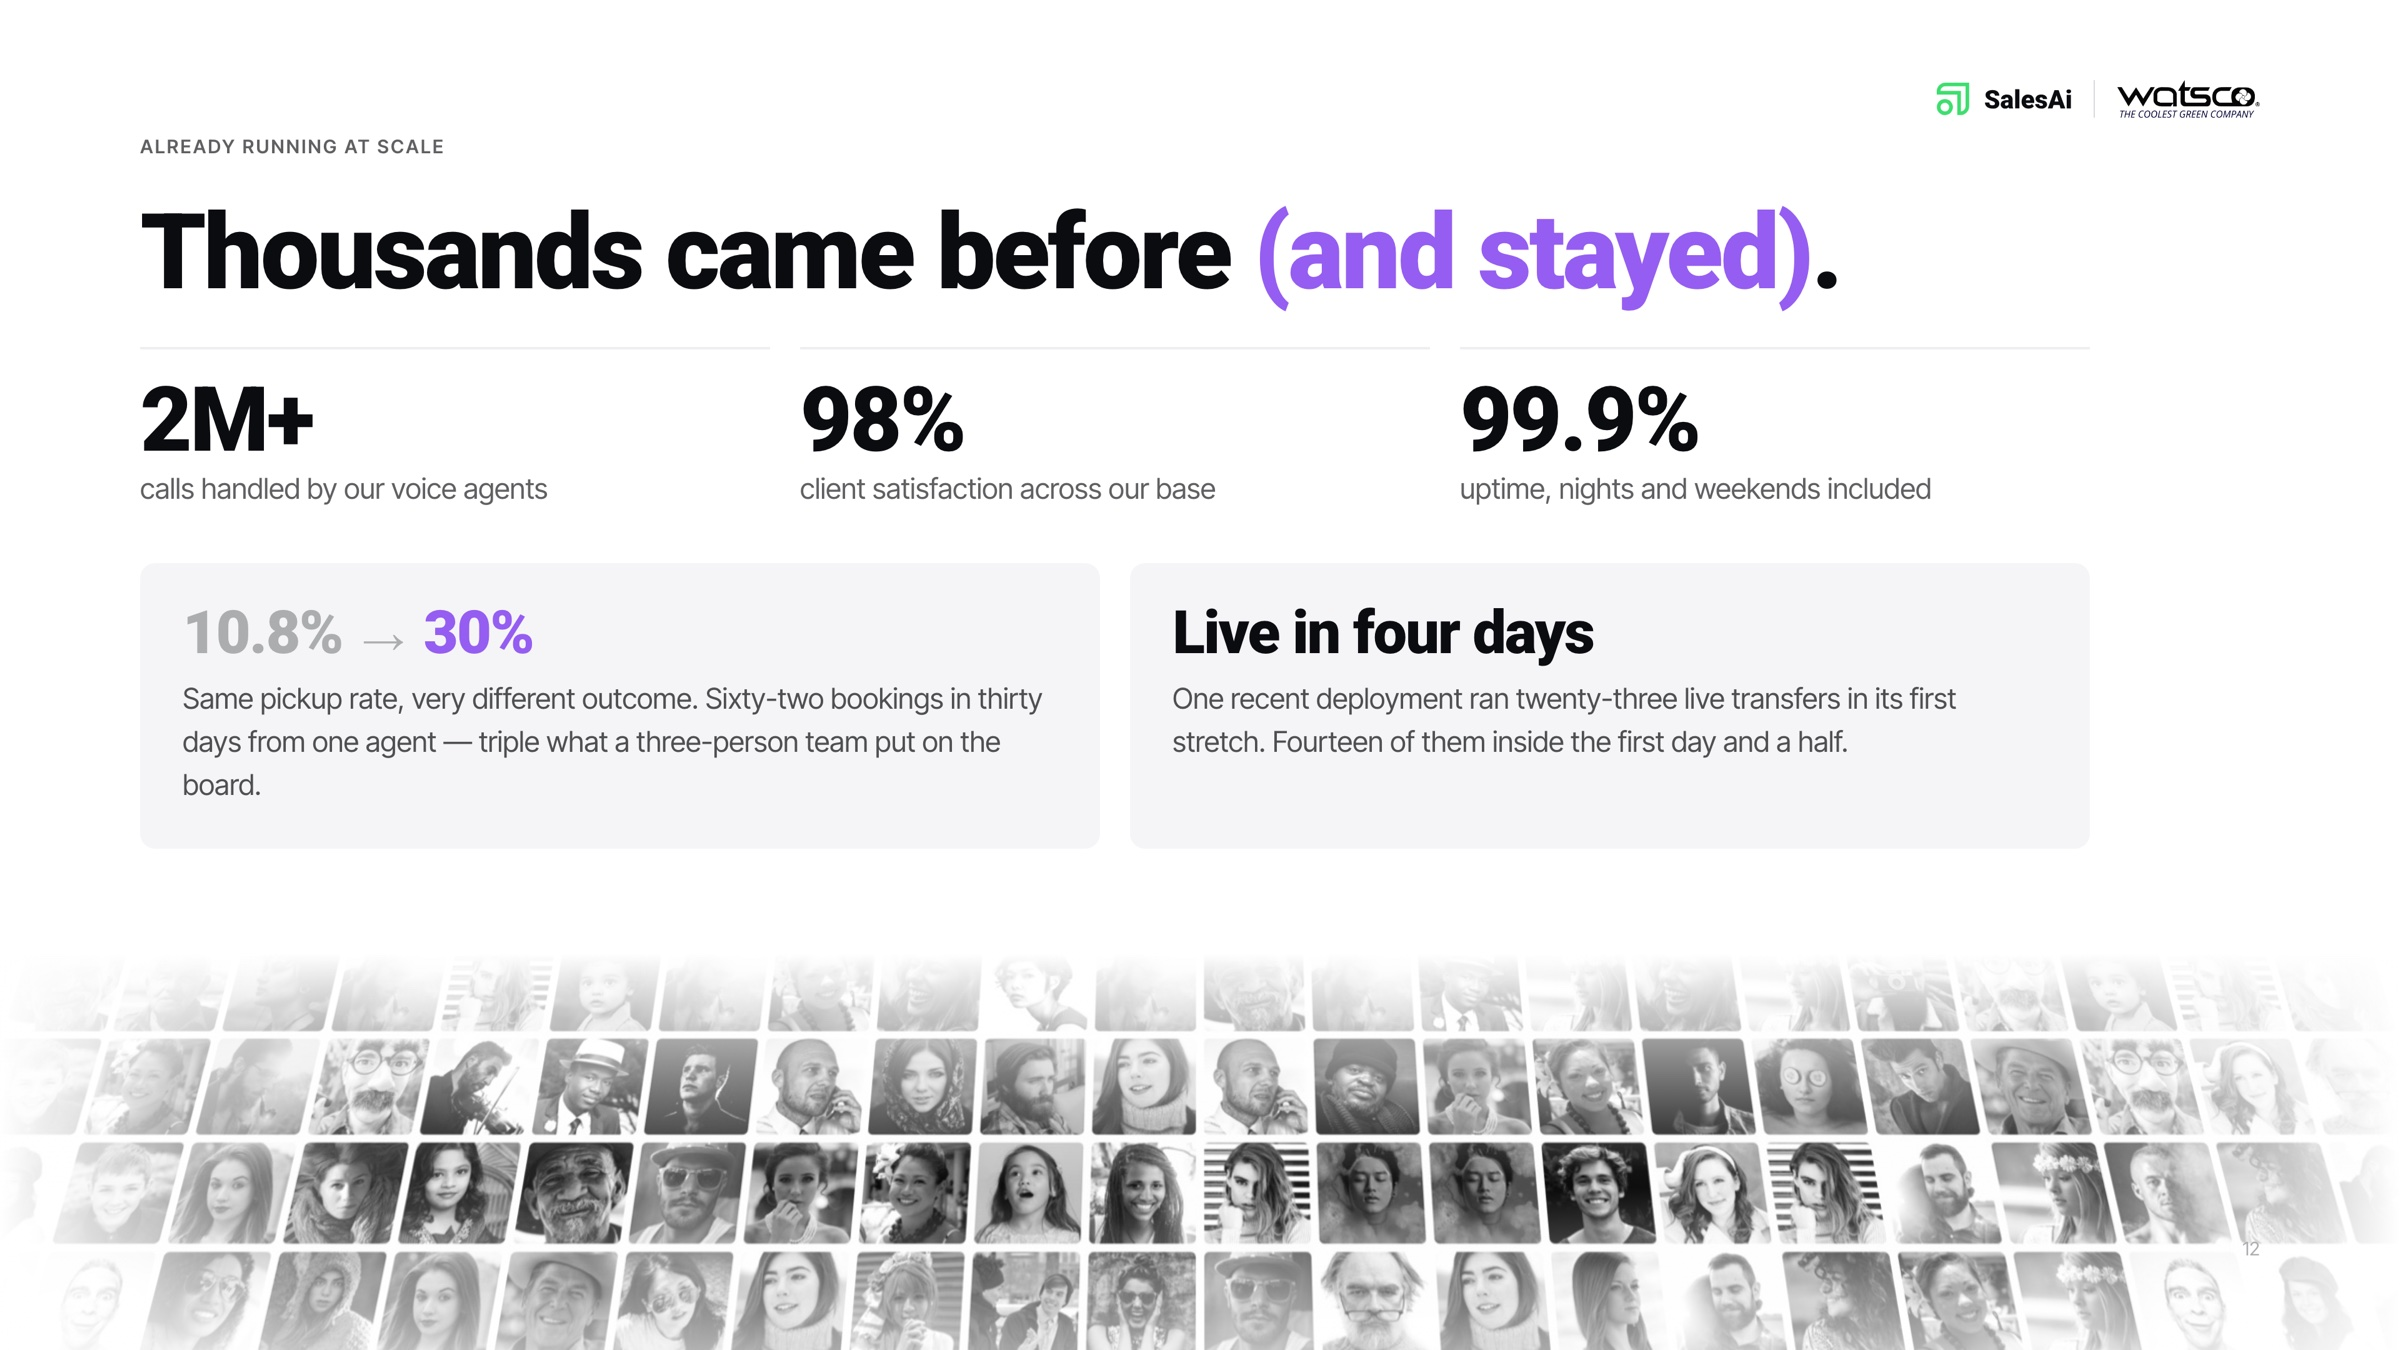
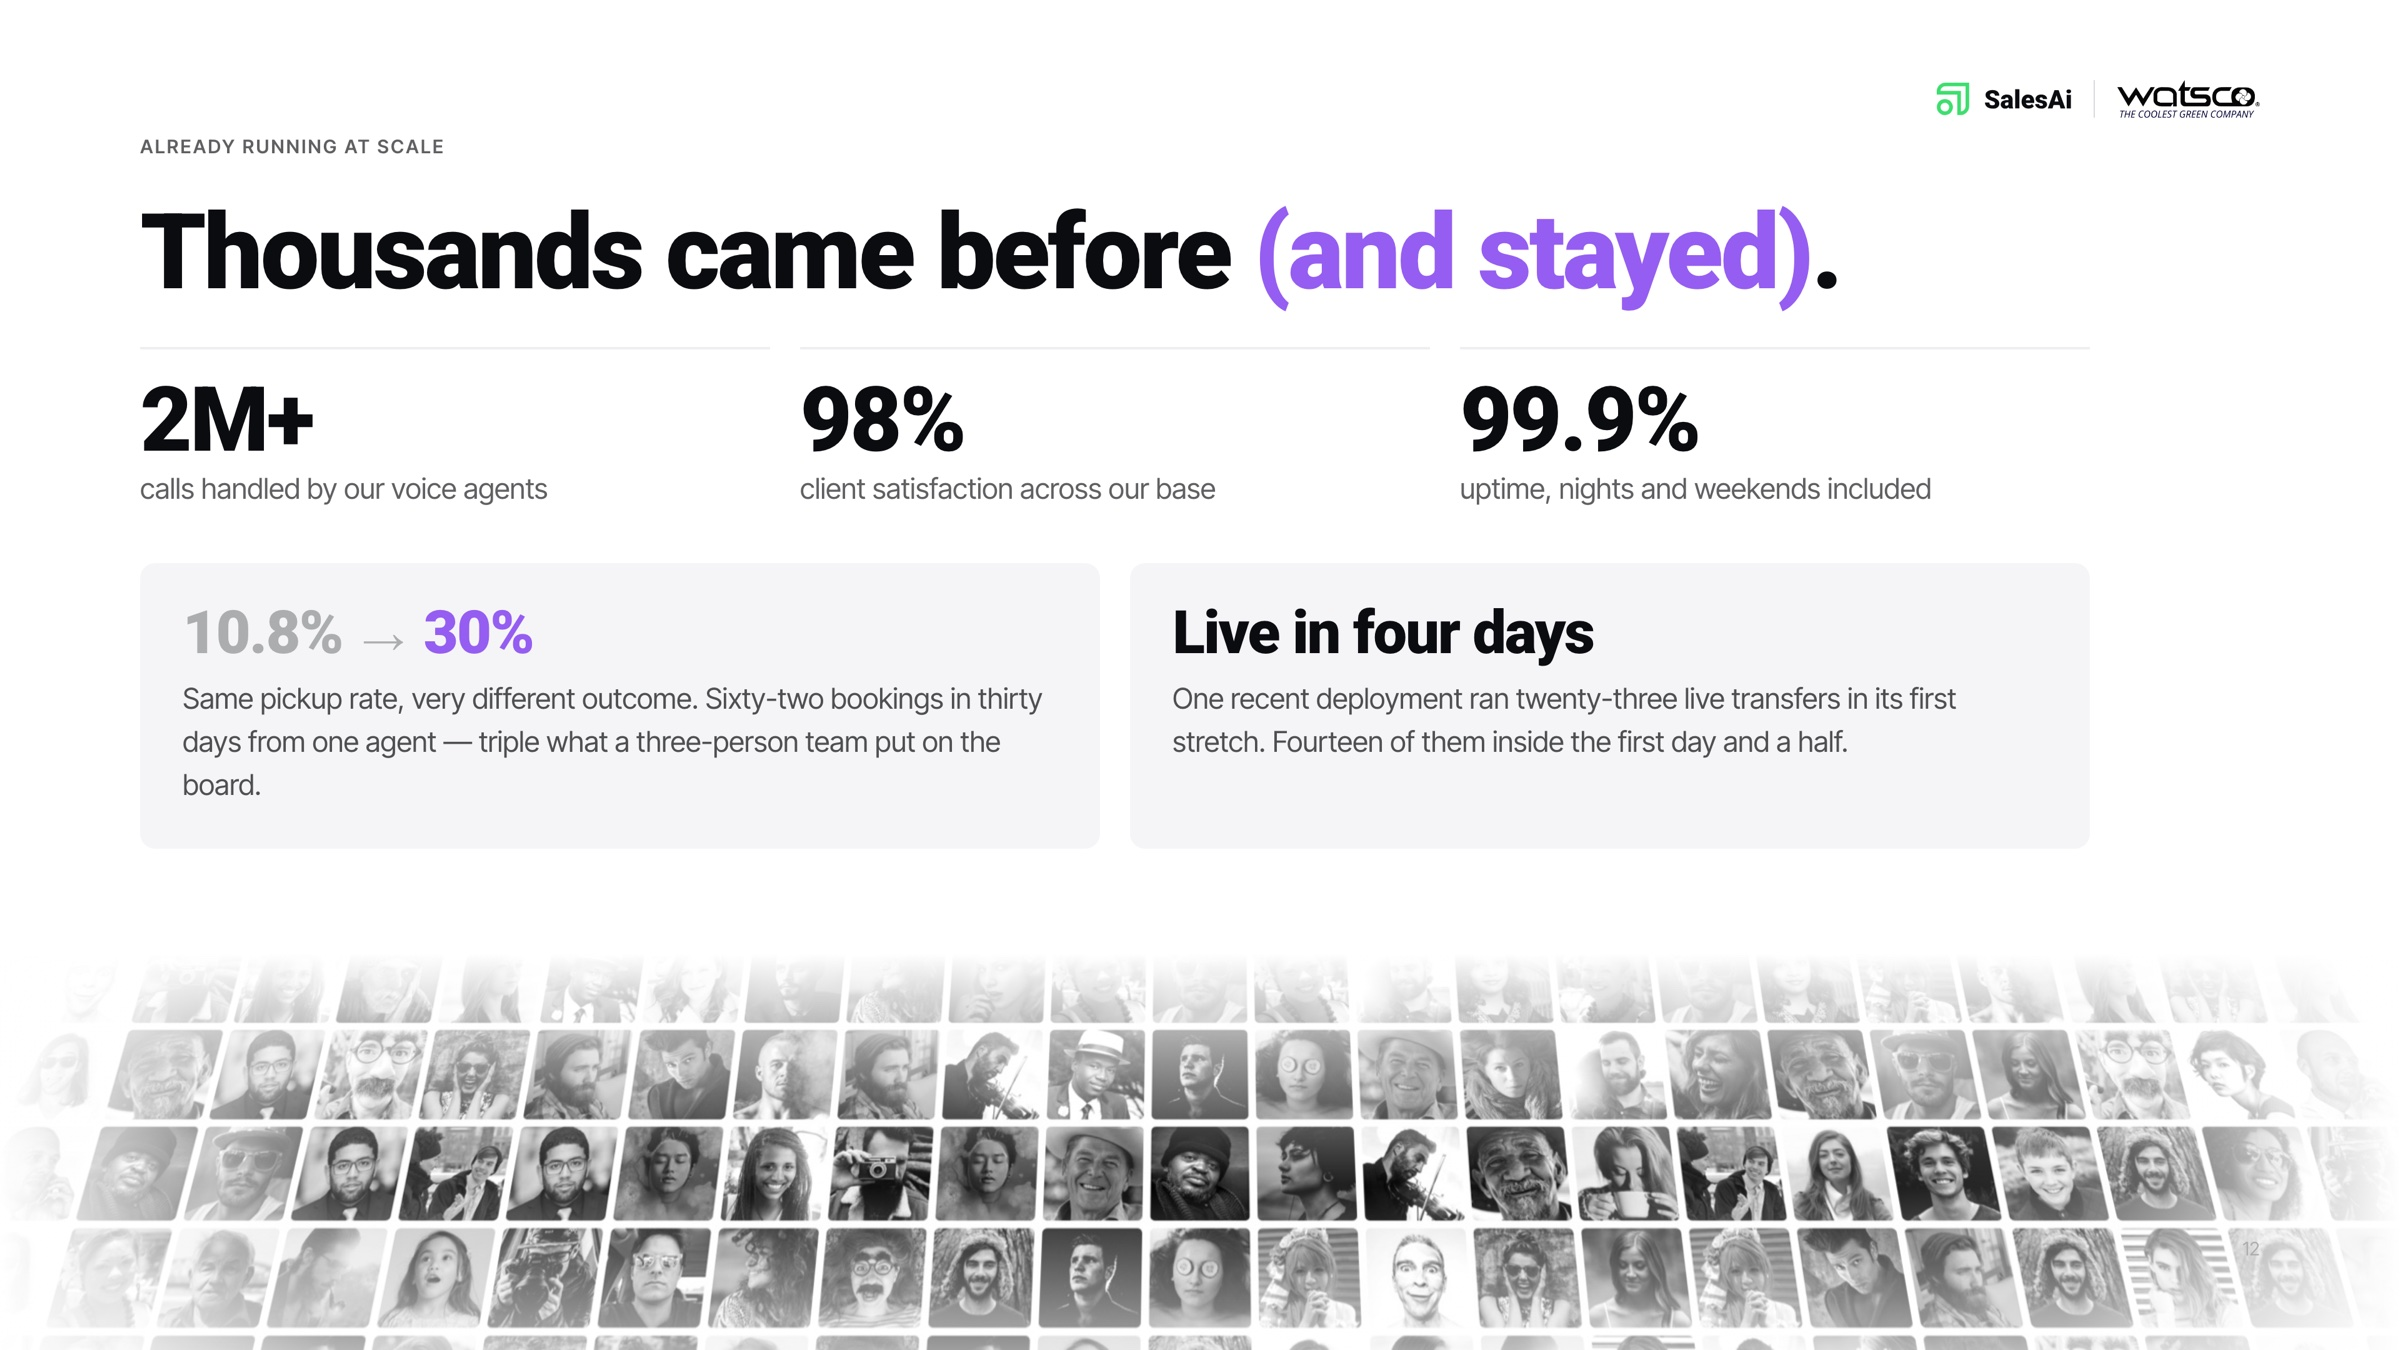
Face wall to 23 columns; add cell phone to the funnel
Montage rebuilt at 23 columns and displayed narrower, so tiles read
slightly smaller. Contact step gains a required mobile number.

Claude-Session: https://claude.ai/code/session_01541ZQJSzd5g49QbE64sNeN

Changed region(s): [[0.0312, 0.7156, 1.0, 1.0]]

diff --git a/watsco-claim.html b/watsco-claim.html
@@ -237,6 +237,7 @@ function render(){
       +  '<p class="sub">We use this to issue your code and prepare your quote.</p>'
       +  '<label class="f"><span>Your name</span><input class="f" id="f_name" autocomplete="name" placeholder="First and last" value="'+esc(A.name)+'"></label>'
       +  '<label class="f"><span>Work email</span><input class="f" id="f_email" type="email" inputmode="email" autocomplete="email" placeholder="you@yourcompany.com" value="'+esc(A.email)+'"></label>'
+      +  '<label class="f"><span>Cell phone</span><input class="f" id="f_phone" type="tel" inputmode="tel" autocomplete="tel" placeholder="(555) 123-4567" value="'+esc(A.phone)+'"></label>'
       +  '<label class="f"><span>Company name</span><input class="f" id="f_company" autocomplete="organization" placeholder="Legal or trading name" value="'+esc(A.company)+'"></label>'
       +  '<label class="f"><span>Company address</span><textarea class="f" id="f_addr" autocomplete="street-address" placeholder="Street, city, state, ZIP">'+esc(A.address)+'</textarea></label>'
       +  '<div class="err" id="err"></div>';
@@ -342,6 +343,8 @@ nextB.addEventListener('click', function(){
     if(!A.name)    return showErr('We need a name for the quote.');
     if(!/^[^\s@]+@[^\s@]+\.[^\s@]+$/.test(A.email)) return showErr('That email doesn’t look right.');
     if(/(gmail|yahoo|hotmail|outlook|icloud|aol)\./i.test(A.email)) return showErr('Please use your work email — the credit is issued to the business.');
+    A.phone = document.getElementById('f_phone').value.trim();
+    if(A.phone.replace(/\D/g,'').length < 10) return showErr('We need a mobile number we can reach you on.');
     if(!A.company) return showErr('Company name is required.');
     if(!A.address) return showErr('We need the company address for the quote.');
     save();

diff --git a/watsco-dealer-deck.html b/watsco-dealer-deck.html
@@ -99,7 +99,7 @@ nav{position:fixed;inset:0 0 auto 0;height:var(--nav);z-index:100;background:#00
 <section class="s" data-n="09"><img src="watsco-deck/09.jpg?v=ffba60d0a7" width="2400" height="1350" alt="Slide 09 — Play 03 · Coordinate execution" loading="lazy" decoding="async"></section>
 <section class="s" data-n="10"><img src="watsco-deck/10.jpg?v=fa9eec9f46" width="2400" height="1350" alt="Slide 10 — Play 04 · Care after the sale" loading="lazy" decoding="async"></section>
 <section class="s" data-n="11"><img src="watsco-deck/11.jpg?v=0dd8a9b20b" width="2400" height="1350" alt="Slide 11 — What compounds" loading="lazy" decoding="async"></section>
-<section class="s" data-n="12"><img src="watsco-deck/12.jpg?v=47e6ed5370" width="2400" height="1350" alt="Slide 12 — Proof" loading="lazy" decoding="async"></section>
+<section class="s" data-n="12"><img src="watsco-deck/12.jpg?v=e57f569dd8" width="2400" height="1350" alt="Slide 12 — Proof" loading="lazy" decoding="async"></section>
 <section class="s" data-n="13"><img src="watsco-deck/13.jpg?v=84be0091f0" width="2400" height="1350" alt="Slide 13 — Enterprise-grade security" loading="lazy" decoding="async"></section>
 <section class="s" data-n="14"><img src="watsco-deck/14.jpg?v=cecd297e04" width="2400" height="1350" alt="Slide 14 — Your quote" loading="lazy" decoding="async"></section>
 <section class="s" data-n="15"><img src="watsco-deck/15.jpg?v=428baae9e3" width="2400" height="1350" alt="Slide 15 — Claim your dealer credit" loading="lazy" decoding="async"></section>
